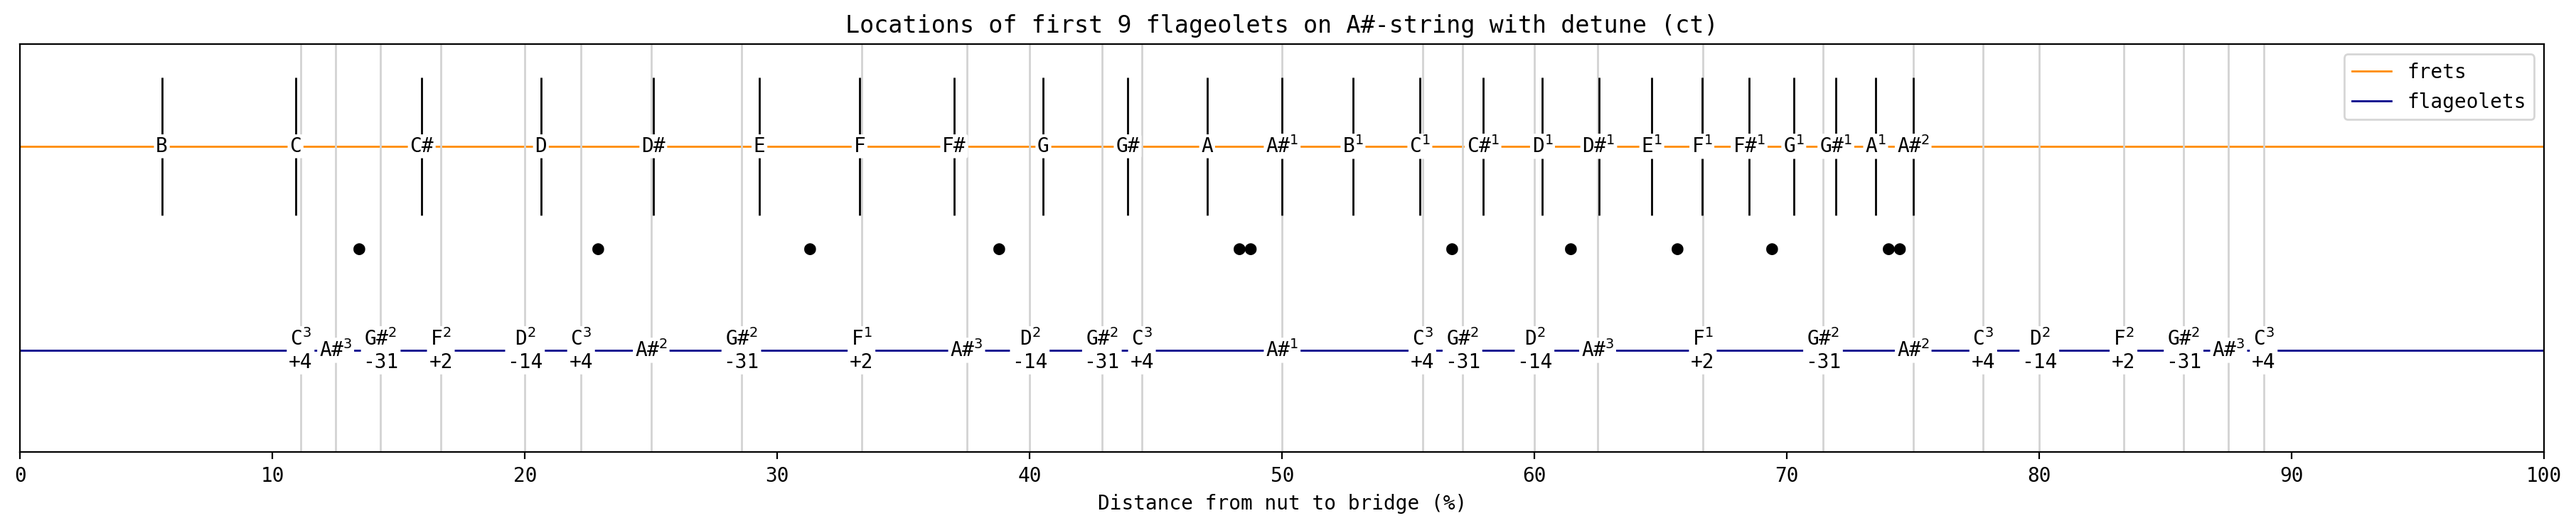
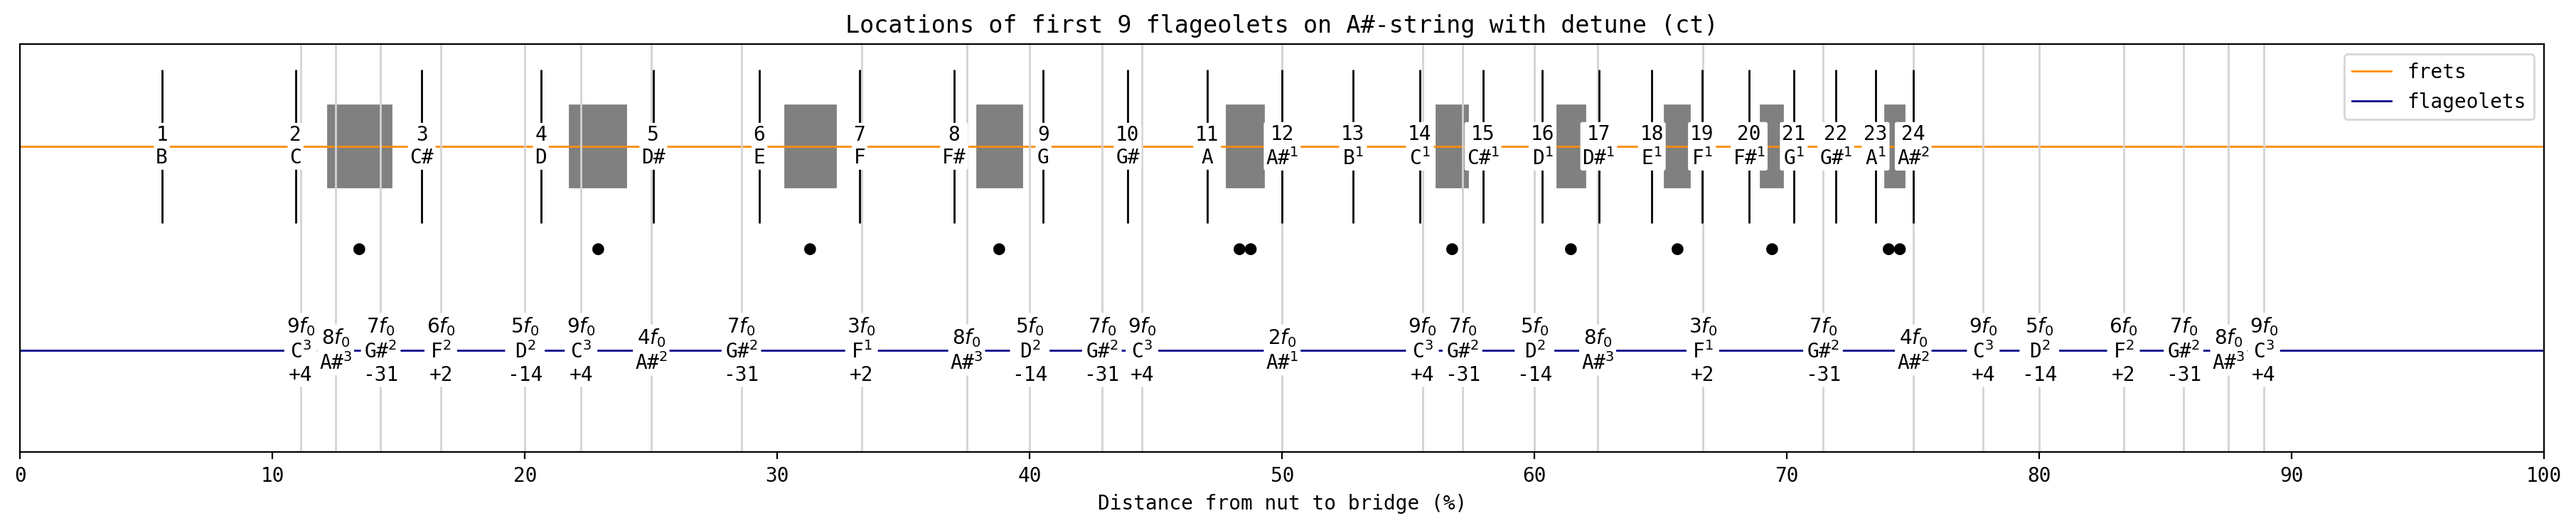
Add more fret markers and label flageolets by frequency multiple

diff --git a/main.py b/main.py
@@ -2,6 +2,7 @@
 
 import matplotlib.pyplot as plt
 import matplotlib.ticker as ticker
+import matplotlib.patches as patches
 import math
 
 PITCH_CLASS_TABLE = ["C", "C#", "D", "D#", "E", "F", "F#", "G", "G#", "A", "A#", "B"]
@@ -17,6 +18,9 @@ harmonics = [2, 3, 4, 5, 6, 7, 8, 9]
 def main():
     for root_note in PITCH_CLASS_TABLE:
         plot_flagiolets(root_note)
+        print("Finished", root_note, "string")
+
+    print("Done!")
 
 
 def plot_flagiolets(root_note):
@@ -67,19 +71,19 @@ def plot_flagiolets(root_note):
 
             # Draw flageolets.
             num_cents_str = "" if rounded_num_cents == 0 else f"\n{rounded_num_cents:+}"
-            ax.plot(
-                distance,
-                0,
+            ax.eventplot(
+                [distance],
+                lineoffsets=0,
+                linelengths=3,
+                linewidths=1,
                 color="lightgray",
-                marker="|",
-                ms=1000,
-                alpha=1,
-                markeredgewidth=1,
             )
             ax.text(
                 distance,
                 0,
-                f"{pitch_class}$^{{{num_octaves}}}$" + num_cents_str,
+                f"${harmonic}f_0$"
+                + f"\n{pitch_class}$^{{{num_octaves}}}$"
+                + num_cents_str,
                 horizontalalignment="center",
                 verticalalignment="center",
                 bbox=bbox_style,
@@ -92,7 +96,7 @@ def plot_flagiolets(root_note):
 
     for fret in frets:
         # Use equal temperament for fret spacing calculations.
-        distance = scale_length - scale_length * 2 ** (- fret / 12)
+        distance = scale_length - scale_length * 2 ** (-fret / 12)
 
         # Calculate distance from root note.
         num_octaves = semitones_to_octaves(fret)
@@ -103,19 +107,19 @@ def plot_flagiolets(root_note):
 
         # Draw frets.
         octave_str = "" if num_octaves == 0 else f"$^{{{num_octaves}}}$"
-        ax.plot(
-            distance, 1, color="black", marker="|", ms=70, alpha=1, markeredgewidth=1
+        ax.eventplot(
+            [distance], lineoffsets=1, linelengths=0.75, linewidths=1, color="black"
         )
         ax.text(
             distance,
             1,
-            f"{pitch_class}{octave_str}",
+            f"{fret}" + f"\n{pitch_class}{octave_str}",
             horizontalalignment="center",
             verticalalignment="center",
             bbox=bbox_style,
         )
 
-        marker_distance = scale_length - scale_length * 2 ** (- (fret - 0.5) / 12)
+        marker_distance = scale_length - scale_length * 2 ** (-(fret - 0.5) / 12)
         # Draw fret markers.
         if fret in marked_frets:
             ax.text(
@@ -133,6 +137,25 @@ def plot_flagiolets(root_note):
                 horizontalalignment="center",
                 verticalalignment="center",
             )
+
+        rect_left = scale_length - scale_length * 2 ** (-(fret - 0.75) / 12)
+        rect_right = scale_length - scale_length * 2 ** (-(fret - 0.25) / 12)
+        rect_width = rect_right - rect_left
+        rect_height = 0.4
+
+        if fret in marked_frets or fret in marked_octaves:
+            # Create a Rectangle patch
+            rect = patches.Rectangle(
+                (rect_left, 1 - rect_height / 2),
+                rect_width,
+                rect_height,
+                linewidth=1,
+                edgecolor="gray",
+                facecolor="gray",
+            )
+
+            # Add the patch to the Axes
+            ax.add_patch(rect)
 
     plt.savefig(f"output/flageolets_{root_note}.png", bbox_inches="tight", dpi=200)
 
